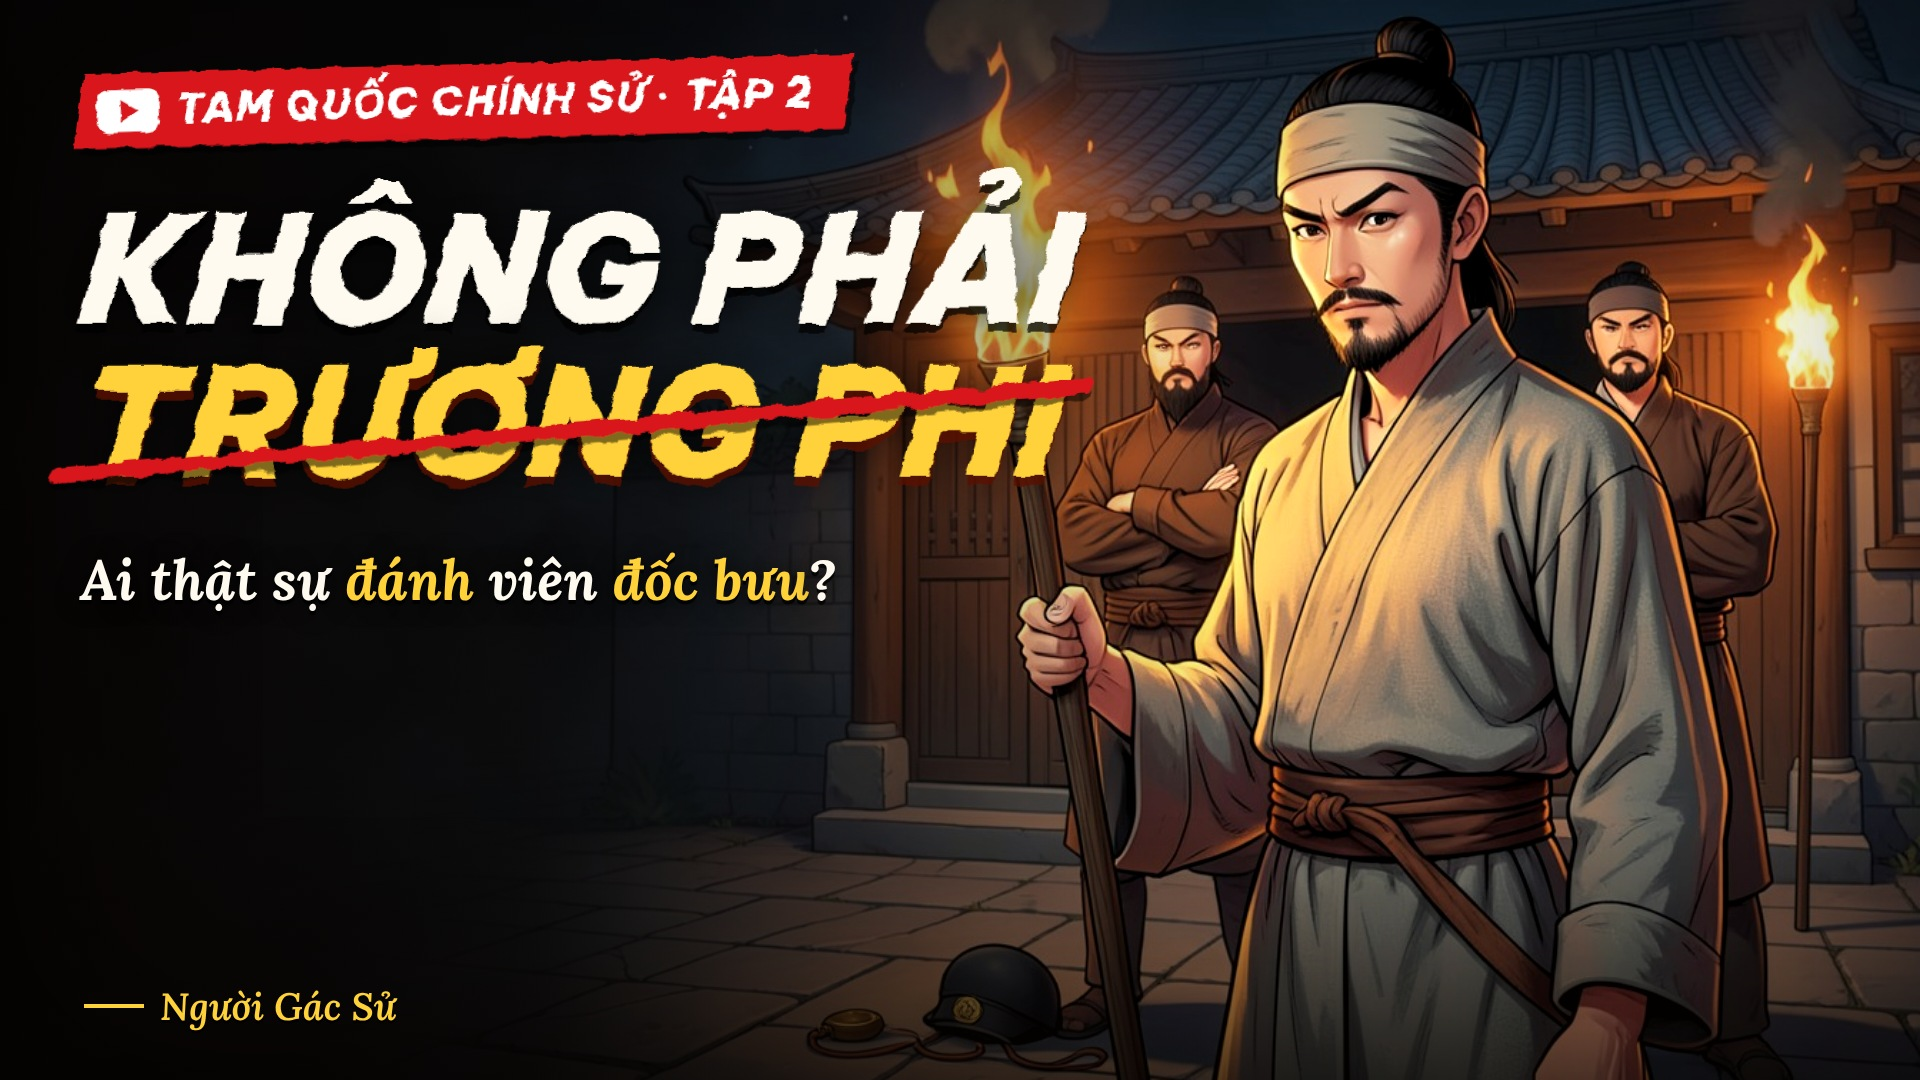
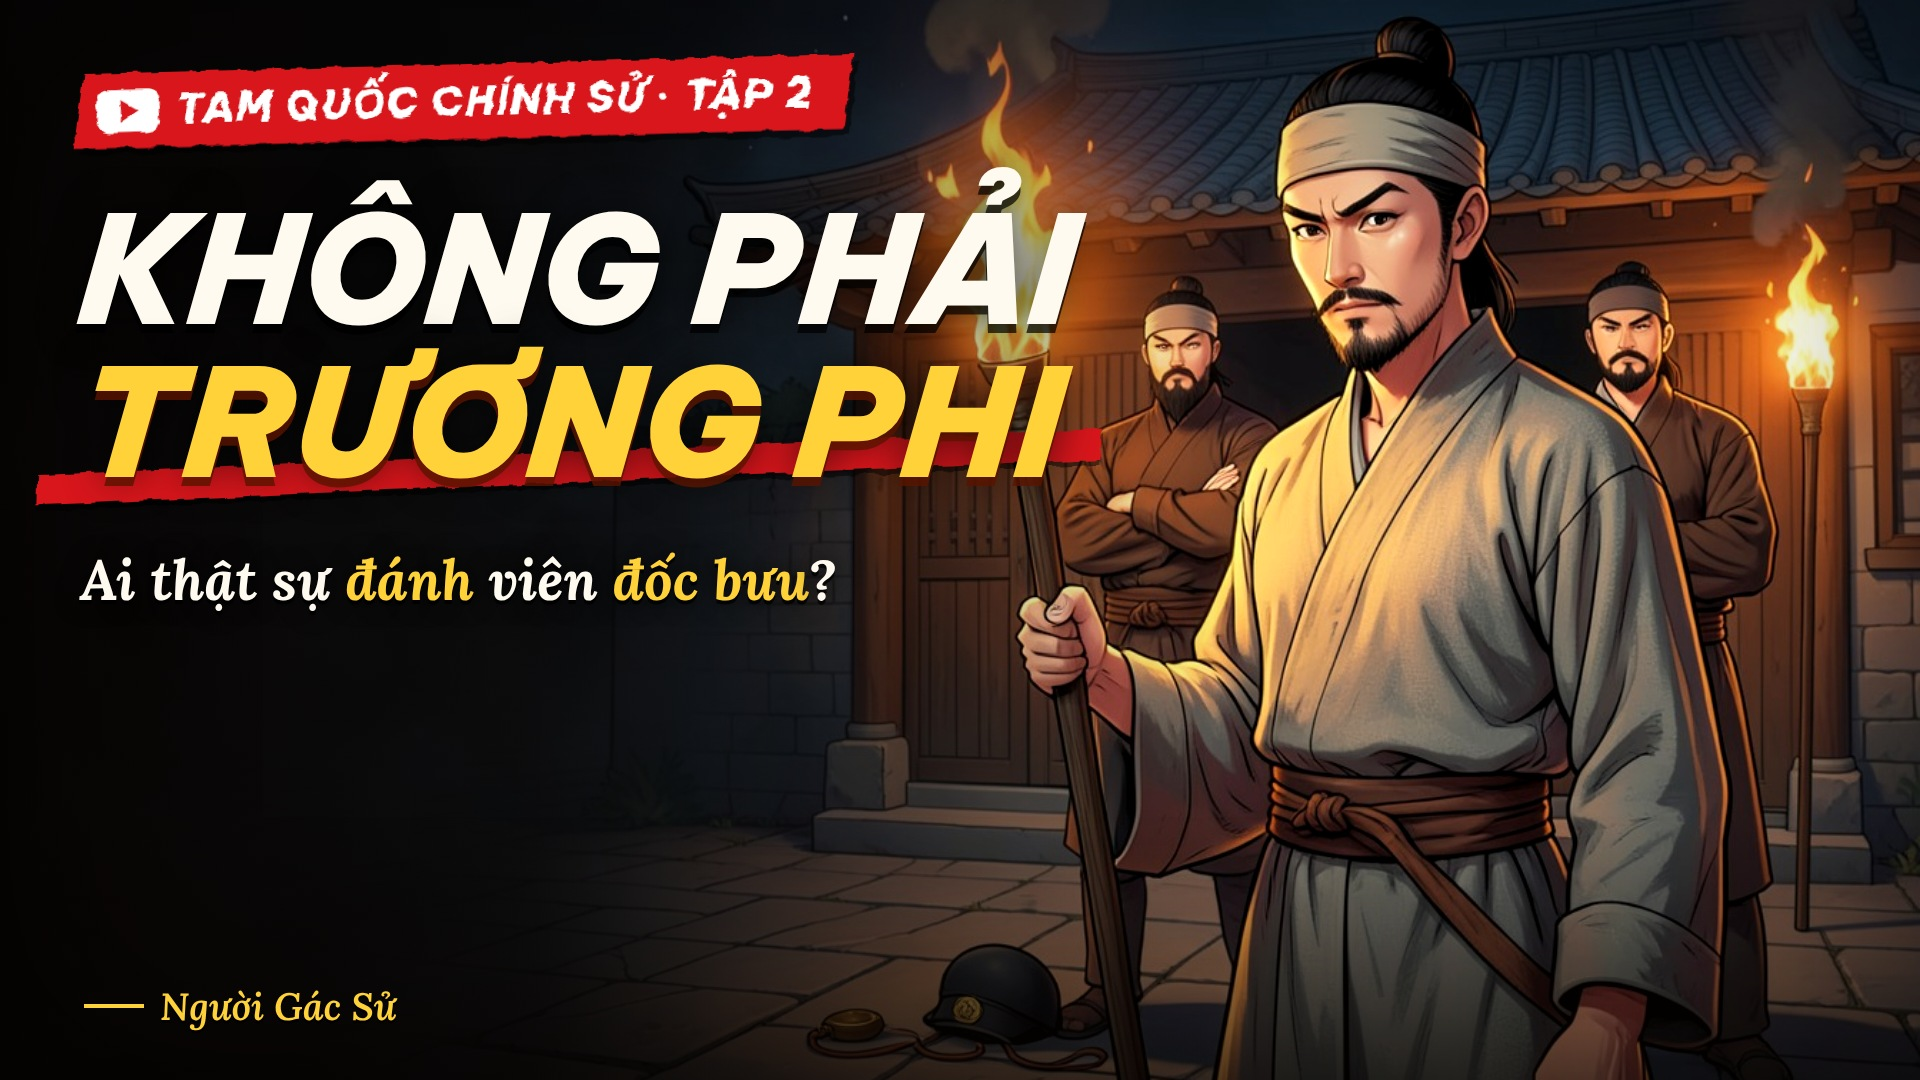
Bìa: bỏ làm nhòe chữ, gạch đỏ chuyển xuống nền dưới chữ
Claude-Session: https://claude.ai/code/session_01HrHutZPxqihVFi29VgDfRn

diff --git a/templates/bia2.html b/templates/bia2.html
@@ -19,10 +19,11 @@ body.v #shade{background:linear-gradient(0deg,rgba(8,4,2,1) 0%,rgba(8,4,2,.95) 2
 #yt{width:62px;height:44px;background:#fff;border-radius:12px;display:flex;align-items:center;justify-content:center}
 #yt i{display:block;width:0;height:0;border-left:18px solid var(--red);border-top:11px solid transparent;border-bottom:11px solid transparent;margin-left:4px}
 #txt{position:absolute}
-.t{font-family:'Title';line-height:.98;white-space:nowrap;transform:skewX(-4deg);filter:url(#rough)}
+.t{font-family:'Title';line-height:.98;white-space:nowrap;transform:skewX(-4deg)}
 .t1{color:var(--cream);-webkit-text-stroke:0;paint-order:stroke fill;text-shadow:0 9px 0 rgba(0,0,0,.7),0 0 40px rgba(0,0,0,.7)}
 .t2{position:relative;display:inline-block;color:var(--gold);text-shadow:0 9px 0 rgba(90,20,0,.8),0 0 40px rgba(0,0,0,.7)}
-.slash{position:absolute;left:-3%;right:-3%;top:50%;height:.1em;background:var(--red);transform:rotate(-5deg);border-radius:.06em;box-shadow:0 .05em 0 rgba(0,0,0,.5);filter:url(#rough2)}
+.slash{position:absolute;left:-4%;right:-4%;top:70%;height:.2em;background:var(--red);transform:rotate(-2.5deg);z-index:0;box-shadow:0 .04em 0 rgba(0,0,0,.5);filter:url(#rough2)}
+#bt{position:relative;z-index:1}
 .sub{font-family:'Lora',serif;font-style:italic;font-weight:700;color:var(--cream);text-shadow:0 4px 0 rgba(0,0,0,.75),0 0 24px rgba(0,0,0,.8);line-height:1.22}
 .sub b{color:var(--gold);font-weight:700}
 #brand{position:absolute;font-family:'Lora',serif;font-style:italic;font-weight:600;color:var(--gold);display:flex;align-items:center;gap:16px;text-shadow:0 3px 0 rgba(0,0,0,.7)}
